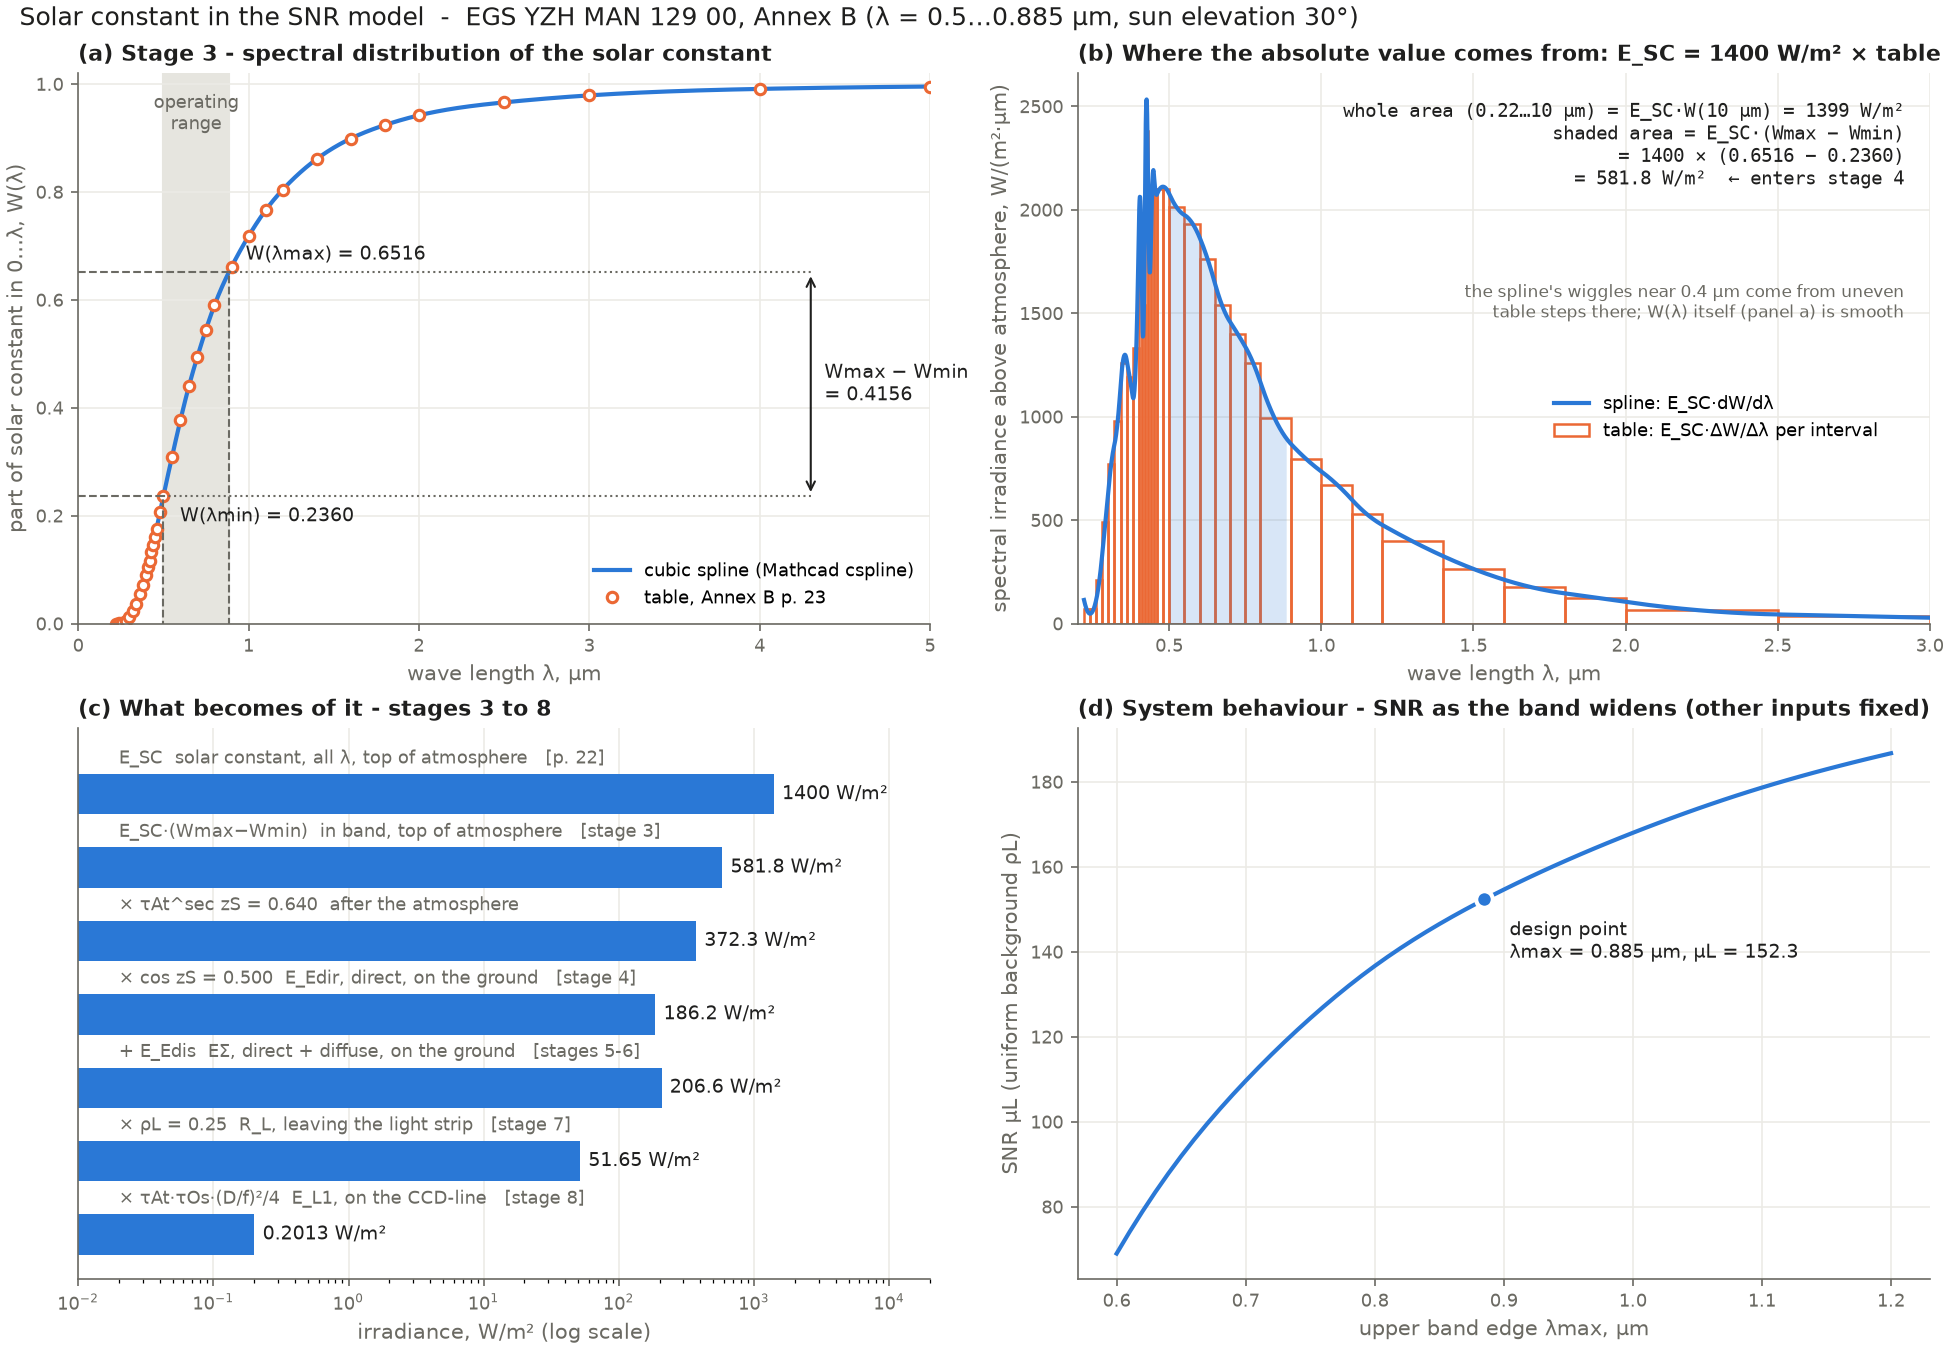
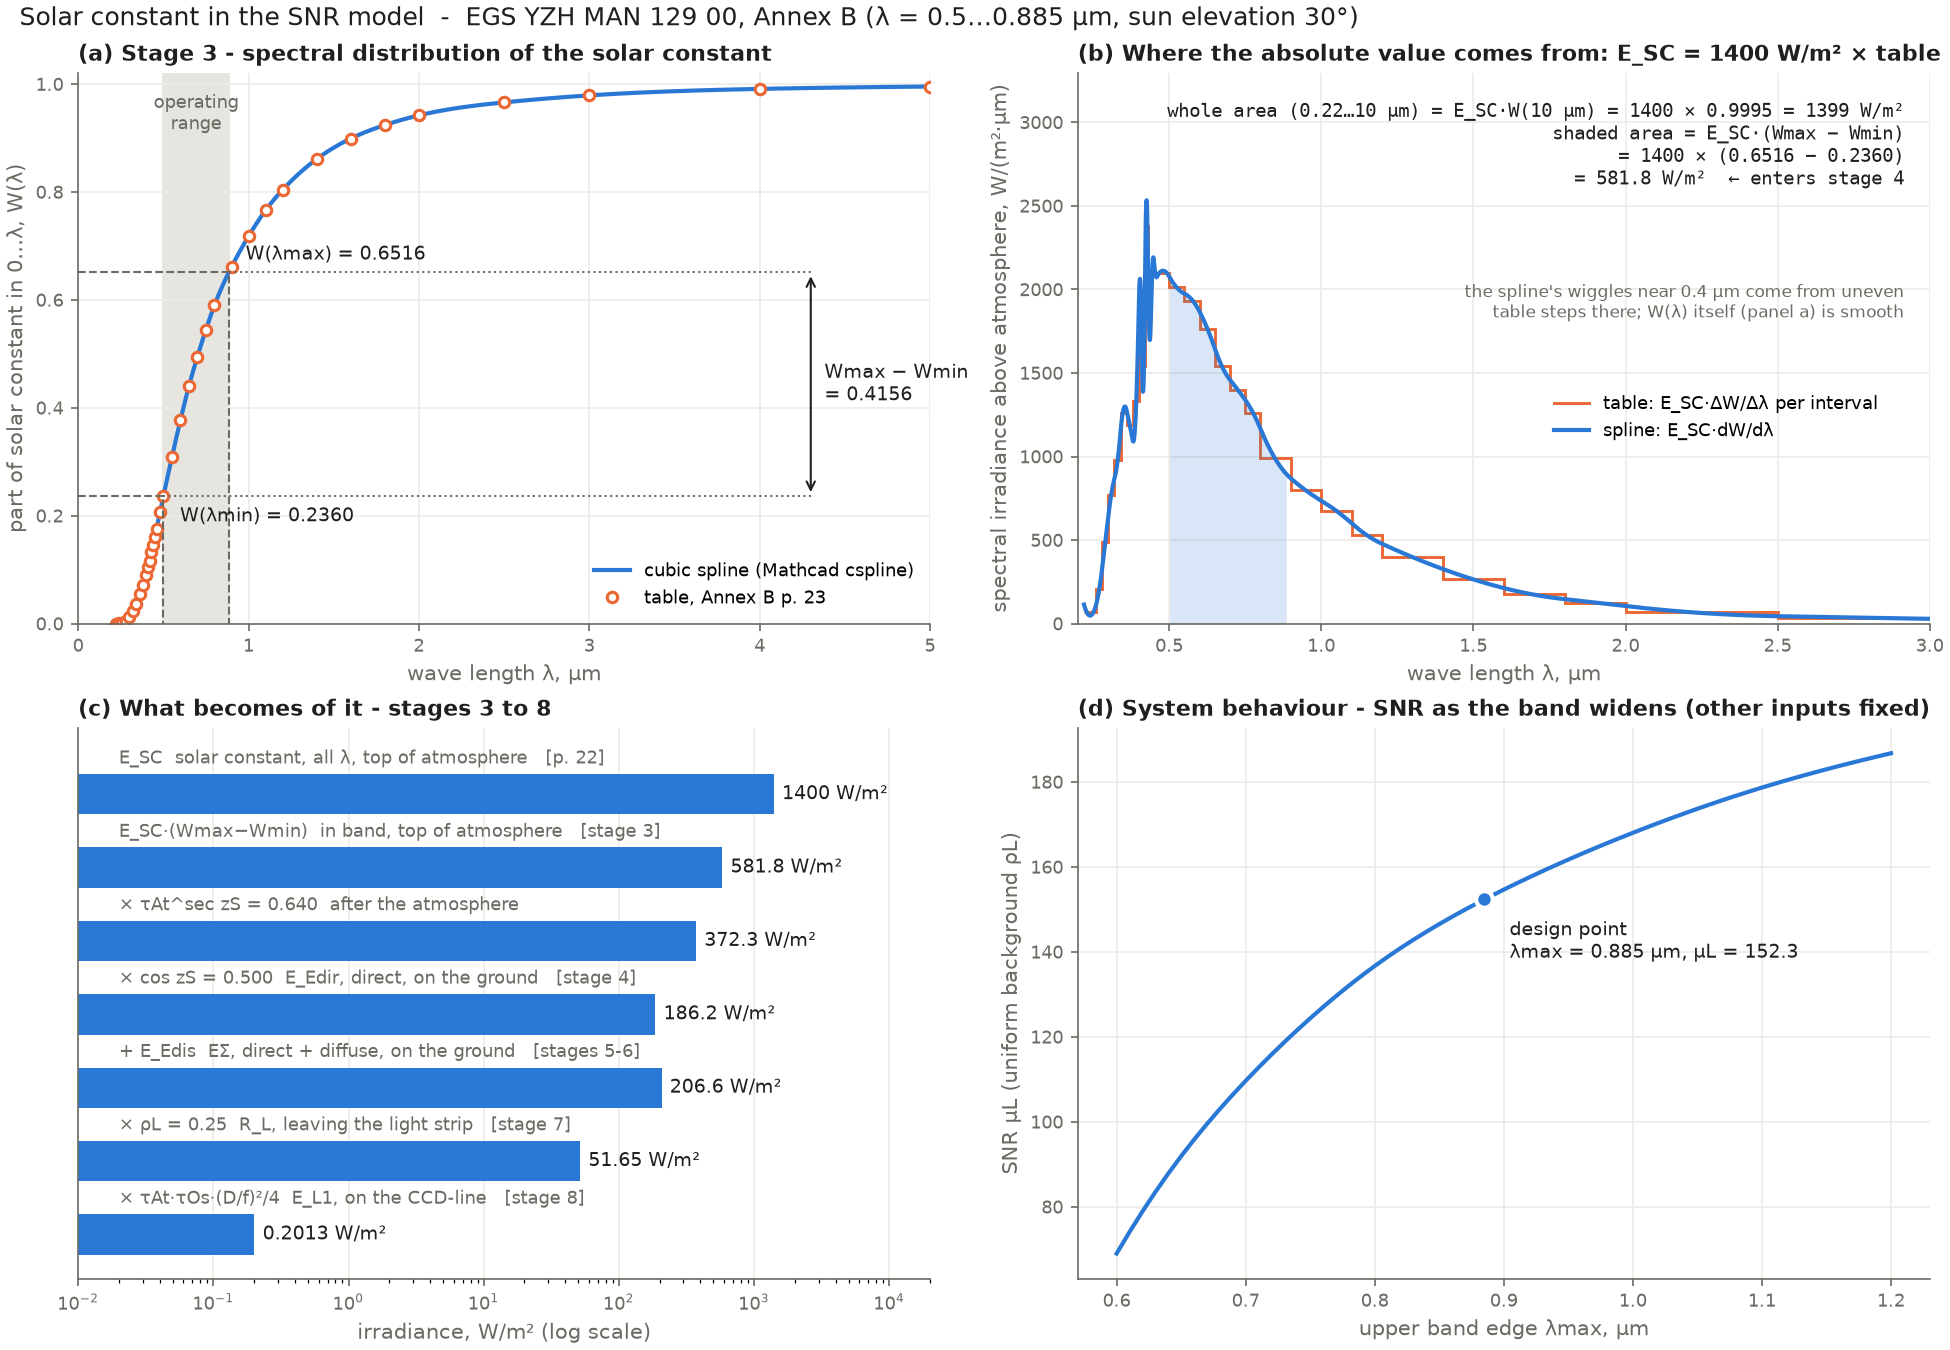
Solar figure: table as one staircase, headroom above the peak, 1400 x 0.9995 shown
Panel (b) in both languages: the table's E_SC·ΔW/Δλ steps are drawn as a single
outline instead of bars dropping to zero (which looked solid near 0.4 µm), the
y-axis leaves room for the annotation, and the whole-spectrum total shows its
factors.

Claude-Session: https://claude.ai/code/session_01WsxHGVMSN5husLYaTJC3Mz

diff --git a/python/src/cdc/snr/plots.py b/python/src/cdc/snr/plots.py
@@ -97,15 +97,15 @@ def plot_solar(p: SNRInputs | None = None, path: str | None = None):
     # (b) the spectrum implied by the table; areas = W/m²
     left, right, avg = solar_table_steps()
     m = right <= 3e-6
-    b.bar(left[m] * 1e6, avg[m], width=(right[m] - left[m]) * 1e6, align="edge",
-          color="none", edgecolor=TABLE, lw=1.2, label="table: E_SC·ΔW/Δλ per interval")
+    edges = np.append(left[m], right[m][-1]) * 1e6
+    b.stairs(avg[m], edges, color=TABLE, lw=1.4, baseline=None, label="table: E_SC·ΔW/Δλ per interval")
     xs = np.linspace(SOLAR_LAMBDA[0], 3e-6, 3000)
     ys = solar_spectral_irradiance(xs)
     b.plot(xs * 1e6, ys, color=MODEL, lw=2, label="spline: E_SC·dW/dλ")
     inb = (xs >= p.lam_min) & (xs <= p.lam_max)
     b.fill_between(xs[inb] * 1e6, 0, ys[inb], color=MODEL, alpha=0.18, lw=0)
     b.text(0.97, 0.95,
-           f"whole area (0.22…10 µm) = E_SC·W(10 µm) = {E_SC * SOLAR_W[-1]:.0f} W/m²\n"
+           f"whole area (0.22…10 µm) = E_SC·W(10 µm) = {E_SC:.0f} × {SOLAR_W[-1]:g} = {E_SC * SOLAR_W[-1]:.0f} W/m²\n"
            f"shaded area = E_SC·(Wmax − Wmin)\n"
            f"   = {E_SC:.0f} × ({r.W_max:.4f} − {r.W_min:.4f})\n"
            f"   = {e_band:.1f} W/m²  ← enters stage 4",
@@ -113,7 +113,7 @@ def plot_solar(p: SNRInputs | None = None, path: str | None = None):
     b.text(0.97, 0.62, "the spline's wiggles near 0.4 µm come from uneven\n"
            "table steps there; W(λ) itself (panel a) is smooth",
            transform=b.transAxes, ha="right", va="top", fontsize=8, color=INK2)
-    b.set(xlim=(0.2, 3), ylim=(0, None), xlabel="wave length λ, µm",
+    b.set(xlim=(0.2, 3), ylim=(0, 1.3 * ys.max()), xlabel="wave length λ, µm",
           ylabel="spectral irradiance above atmosphere, W/(m²·µm)")
     b.legend(loc=(0.55, 0.32), fontsize=8.5, frameon=False)
     _style(b, f"(b) Where the absolute value comes from: E_SC = {E_SC:.0f} W/m² × table")

diff --git a/matlab/+cdc/+snr/plotSolar.m b/matlab/+cdc/+snr/plotSolar.m
@@ -63,17 +63,17 @@ in = xs >= p.lam_min & xs <= p.lam_max;
 fill(b, [xs(in) fliplr(xs(in))]*1e6, [ys(in) zeros(1, nnz(in))], MODEL, "FaceAlpha", 0.18, "EdgeColor", "none");
 [L, R, avg] = cdc.snr.solarTableSteps();
 m = R <= 3e-6;
-sx = reshape([L(m); L(m); R(m); R(m)], 1, []) * 1e6;
-sy = reshape([zeros(1, nnz(m)); avg(m); avg(m); zeros(1, nnz(m))], 1, []);
+sx = reshape([L(m); R(m)], 1, []) * 1e6;          % one staircase outline, no drops to zero
+sy = reshape([avg(m); avg(m)], 1, []);
 hb = plot(b, sx, sy, "Color", TABLE, "LineWidth", 1.2);
 hl = plot(b, xs*1e6, ys, "Color", MODEL, "LineWidth", 2);
-text(b, 0.97, 0.95, sprintf(['whole area (0.22…10 µm) = E_SC·W(10 µm) = %.0f W/m²\n' ...
+text(b, 0.97, 0.95, sprintf(['whole area (0.22…10 µm) = E_SC·W(10 µm) = %.0f × %g = %.0f W/m²\n' ...
     'shaded area = E_SC·(Wmax − Wmin)\n   = %.0f × (%.4f − %.4f)\n   = %.1f W/m²  ← enters stage 4'], ...
-    t.E_SC * t.W(end), t.E_SC, r.W_max, r.W_min, eBand), "Units", "normalized", ...
+    t.E_SC, t.W(end), t.E_SC * t.W(end), t.E_SC, r.W_max, r.W_min, eBand), "Units", "normalized", ...
     "HorizontalAlignment", "right", "VerticalAlignment", "top", "FontName", "Consolas", "FontSize", 9, "Color", INK);
 text(b, 0.97, 0.36, sprintf("the spline's wiggles near 0.4 µm come from uneven\ntable steps there; W(λ) itself (panel a) is smooth"), ...
     "Units", "normalized", "HorizontalAlignment", "right", "VerticalAlignment", "top", "FontSize", 8, "Color", INK2);
-xlim(b, [0.2 3]); ylim(b, [0 inf]);
+xlim(b, [0.2 3]); ylim(b, [0 1.3 * max(ys)]);
 xlabel(b, "wave length λ, µm"); ylabel(b, "spectral irradiance above atmosphere, W/(m²·µm)");
 legend(b, [hl hb], ["spline: E_SC·dW/dλ", "table: E_SC·ΔW/Δλ per interval"], "Location", "east", "Box", "off");
 style(b, sprintf("(b) Where the absolute value comes from: E_SC = %.0f W/m² × table", t.E_SC));
